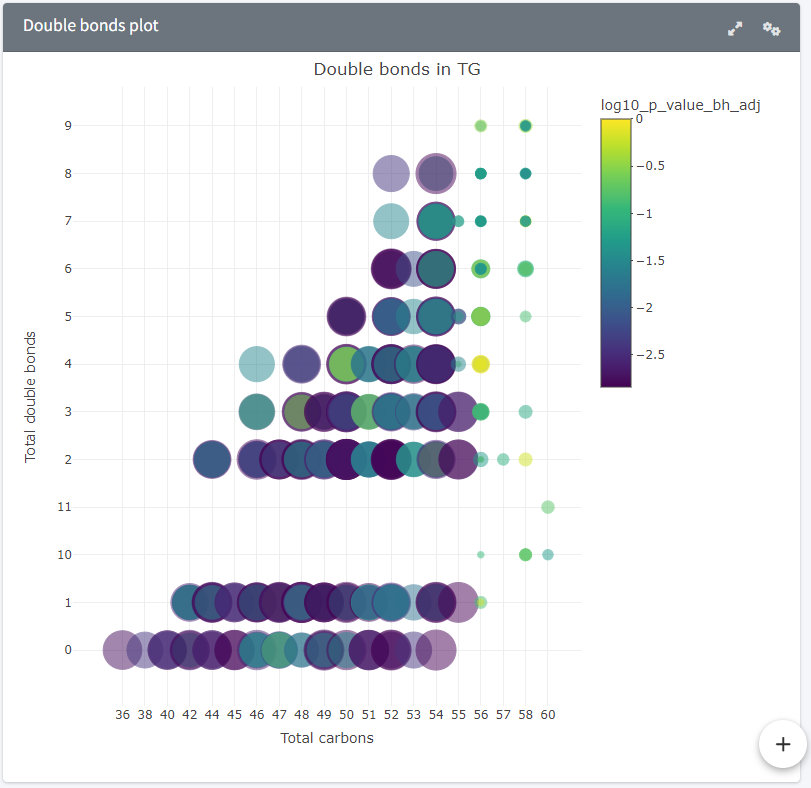
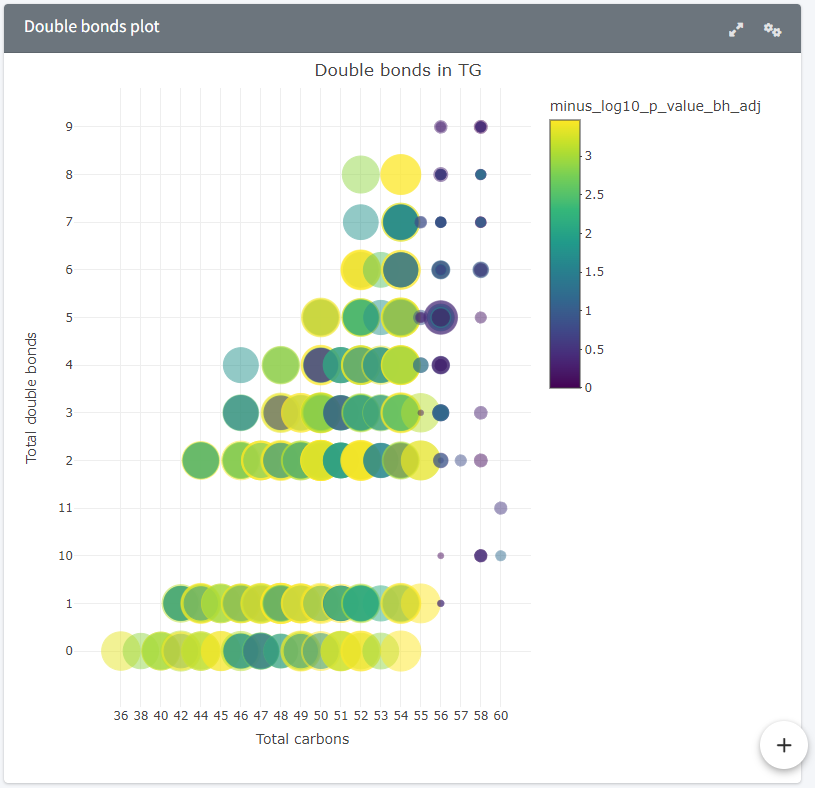
Basic visualisation documentation finished.

diff --git a/help/data_visualisation_volcano_plot.md b/help/data_visualisation_volcano_plot.md
@@ -1,10 +1,26 @@
 Volcano plot
 =======================
 ---
-
-Plot used to visualise the differences between two sample groups by plotting the -log10(BH adjusted p-value) against the log2(fold change). The groups can be selected through the sidebar with "Select group column" (a column from the metadata table containing the groups to be compared). The comparison is done on a one-on-one basis, so two groups must be selected in the "Select groups to compare" slot.  
+### Plot and interface
+Plot used to visualise the differences between two sample groups. The groups can be selected through the sidebar with "Select group column" (a column from the metadata table containing the groups to be compared). The comparison is done on a group-on-group basis: two groups must be selected in the "Select two groups to compare" slot.  
 The data table produced for the volcano plot can be downloaded using the download button.  
-The datapoints, representing the individual lipid species, are coloured according to their lipid class to easily 
+The datapoints, representing the individual lipid species, are coloured according to their lipid class to easily spot class-level differences.  
+In volcano plots, data points situated on the top of the graph are more significant (low p-values) and those outside of the -1 to +1 range have large fold changes.  
 
 <img src="./img/visualise_lips_volcano_plot_1.png" width="49%">
 <img src="./img/visualise_lips_volcano_plot_2.png" width="49%">
+
+### Data processing
+Samples of the two groups are selected and for each feature in the *Filtered feature table*, p-values and fold changes are calculated.  
+The fold change is calculated using the median value of the second group divided by the median value of the first group, ignoring missing values. In case of groups containing only missing values: 
+- Both groups contain only NAs, the fold change is set to 1 by default (low values in both groups).  
+- First group contains only NAs (denominator), the fold change is set to slightly above the maximum fold change, i.e. 1.01 x max fold change (high value divided by low value).  
+- Second group contains only NAs (numerator), the fold change is set to slighlty below the minimum fold change, i.e. 0.99 x min fold change (low value divided by high value).  
+
+The p-value is calculated using a Wilcoxon test on the z-score normalised values (*Z-scored data table*) between group 1 and group 2 for a given feature. In case of groups containing only NAs:  
+- Both groups contain only NAs, the p-value is by default set to 1 (low values in both groups).  
+- One group contains only NAs, the p-value is set to slightly below the minimum p-value, i.e. 0.99 x min p-value (low values compared to high values).  
+
+The p-value is then adjusted using the Benjamini-Hochberg procedure.  
+
+The *volcano table* is then produced by calculating the log2(fold change) to be displayed on the x-axis, and -log10(BH(p-value)) to be displayed on the y-axis.  

diff --git a/help/data_visualisation_double_bond_plot.md b/help/data_visualisation_double_bond_plot.md
@@ -1,8 +1,24 @@
 Double bond plot
 =======================
 ---
-
-Double bond plot desc
+### Plot and interface
+Plot comparing two sample groups based on a lipid class, the double bond and carbon counts. The groups can be selected through the sidebar with "Select group column" (a column from the metadata table containing the groups to be compared). The comparison is done on a group-on-group basis: two groups must be selected in the "Select two groups to compare" slot.  
+The markers, representing individual lipid species, are coloured according to -log10(BH(p-value)), meaning that the higher their value is, the more significant that lipid is (low p-value). The marker size is relative to log2(fold change). Values are best examined by downloading the associated table using the download button.  
 
 <img src="./img/visualise_lips_dbplot_1.png" width="49%">
 <img src="./img/visualise_lips_dbplot_2.png" width="49%">
+
+### Data processing
+Samples of the two groups are selected and for each feature in the *Filtered feature table*, p-values and fold changes are calculated.  
+The fold change is calculated using the median value of the second group divided by the median value of the first group, ignoring missing values. In case of groups containing only missing values: 
+- Both groups contain only NAs, the fold change is set to 1 by default (low values in both groups).  
+- First group contains only NAs (denominator), the fold change is set to slightly above the maximum fold change, i.e. 1.01 x max fold change (high value divided by low value).  
+- Second group contains only NAs (numerator), the fold change is set to slighlty below the minimum fold change, i.e. 0.99 x min fold change (low value divided by high value).  
+
+The p-value is calculated using a Wilcoxon test on the z-score normalised values (*Z-scored data table*) between group 1 and group 2 for a given feature. In case of groups containing only NAs:  
+- Both groups contain only NAs, the p-value is by default set to 1 (low values in both groups).  
+- One group contains only NAs, the p-value is set to slightly below the minimum p-value, i.e. 0.99 x min p-value (low values compared to high values).  
+
+The p-value is then adjusted using the Benjamini-Hochberg procedure.  
+
+The *double bonds table* is then produced from the *Filtered feature table* (containing feature metadata) and adding log2(fold change) and -log10(BH(p-value)).    

diff --git a/help/data_visualisation_heatmap.md b/help/data_visualisation_heatmap.md
@@ -1,8 +1,17 @@
 Heatmap
 =======================
 ---
-
-Heatmap desc
+### Plot and interface
+Plot to visualise correlations between samples and features. Two datasets can be selected from the sidebar, either lipid species (individual compounds) or lipid classes. Samples and features can be left in their original order, or clustered by ticking either one or both "Cluster samples" and "Cluster features" boxes.  
+Metadata can be mapped on the heatmap x- and y-axes to observe more correlations. "Map sample data" allows a selection of one or more metadata columns to be mapped on the sample axis. "Map feature data" allows a selection of one or more columns from the *Filtered feature table*, i.e. lipid class, carbon count or unsaturation count.  
+The "Percentile" slider allows a filtering of the data from the 90th to the 100th percentile to prevent outliers from disrupting the heatmap colouring. Choosing the 95th percentile means that 95% of the data will be displayed, i.e. the top 2.5% and bottom 2.5% will be excluded from the colour scale.  
+The heatmap is generated once the "Generated heatmap" button is clicked (can take some time).  
+The individual values can be examined by hovering the mouse over each cell, however the outlier values are capped to the minimum and maximum values of the percentile chosen. All the values (including the outlier actual values) can be obtained from the download table button.  
 
 <img src="./img/visualise_lips_heatmap_1.png" width="49%">
 <img src="./img/visualise_lips_heatmap_2.png" width="49%">
+
+### Data processing
+Two tables can be selected, *Total normalised and z-score data table* or *Total normalised and z-scored class table*, respectively the normalised lipid species or lipid classes.  
+Using the percentile slider, the maximum and minimum values of the colour coding are set from the selected table. The midpoint is set to the median of all the values. The values are then displayed directly on the heatmap.  
+

diff --git a/help/data_visualisation_pca.md b/help/data_visualisation_pca.md
@@ -1,8 +1,12 @@
 PCA
 =======================
 ---
-
-PCA desc
+### Plot and interface
+Plot to observe correlations between sample groups. Two datasets can be selected from the sidebar, either lipid species (individual compounds) or lipid classes. Data points in the scores plot can be coloured by groups using the "Select metadata column" selector. The loadings plot displays which variables cause the observed clustering. Both scores and loadings tables can be downloaded via their respective download buttons.  
 
 <img src="./img/visualise_lips_pca_1.png" width="49%">
 <img src="./img/visualise_lips_pca_2.png" width="49%">
+
+### Data processing
+Two tables can be selected, *Total normalised and z-score data table* or *Total normalised and z-scored class table*, respectively the normalised lipid species or lipid classes. Loadings and scores are calculated for PC1 and PC2, and the data is displayed in the form of scatter plots.  
+

diff --git a/help/data_tables.md b/help/data_tables.md
@@ -87,7 +87,7 @@ Omics_data$tables$data_class_norm_z_scored
 ```
 It is automatically generated with the *Filtered data table* and updated each time the features are filtered.  
 
-### Total normalised and z-score data table
+### Total normalised and z-scored data table
 Z-scoring applied to the *Total normalised data table* to normalise further the data.  
 This table can be accessed in the Omics_data object thus:  
 ```
@@ -101,6 +101,10 @@ It is automatically generated with the *Filtered data table* and updated each ti
 Omics_data$tables$data_class_table
 ```
 
+### Total normalised and z-scored class table
 
+```
+Omics_data$tables$data_class_table_z_scored
+```
 
 
